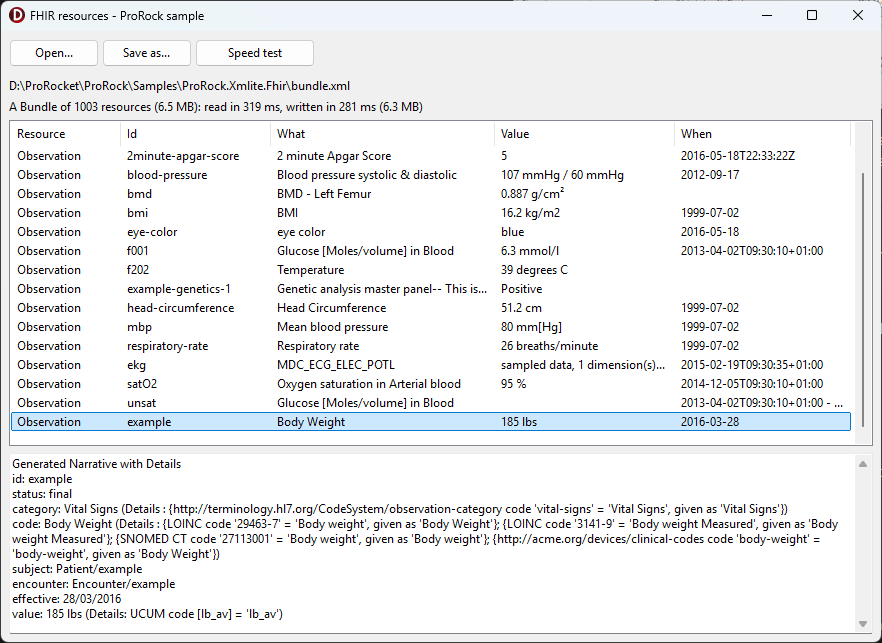
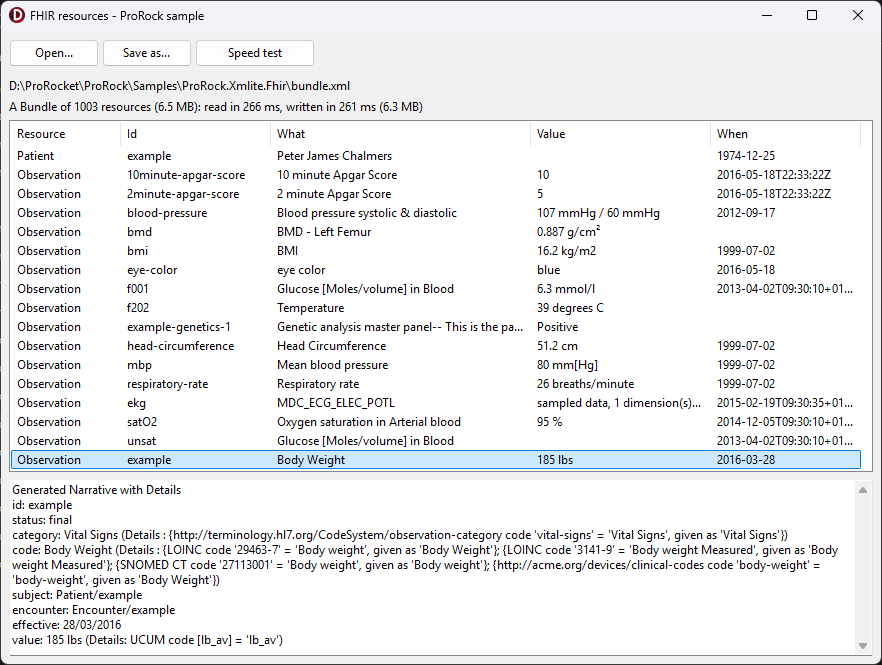
Samples: the FHIR sample's screenshot with 1.7's read and write times

diff --git a/docs/samples.md b/docs/samples.md
@@ -91,7 +91,7 @@ with what it is, its value and when; the selected one's narrative is shown as te
 was read, and Speed test reads and writes a Bundle of 1,000 resources made of the same entries. `bundle.xml` holds the
 Patient and Observation examples of the specification.
 
-![The FHIR sample: a Bundle of the specification's examples, each Observation with its value - 51.2 cm, 107 mmHg / 60 mmHg, blue, 185 lbs - the Body Weight narrative below, and a Bundle of 1,003 resources read in 319 ms and written in 281 ms](assets/fhir-sample.png)
+![The FHIR sample: a Bundle of the specification's examples, the Patient and each Observation with its value - 51.2 cm, 107 mmHg / 60 mmHg, blue, 185 lbs - the Body Weight narrative below, and a Bundle of 1,003 resources read in 266 ms and written in 261 ms](assets/fhir-sample.png)
 
 The resource of a Bundle entry is a choice of all 146 resource types; an Observation's `value[x]` is one of eleven.
 Only the member in the document is created, and the typed shortcut gives it:
